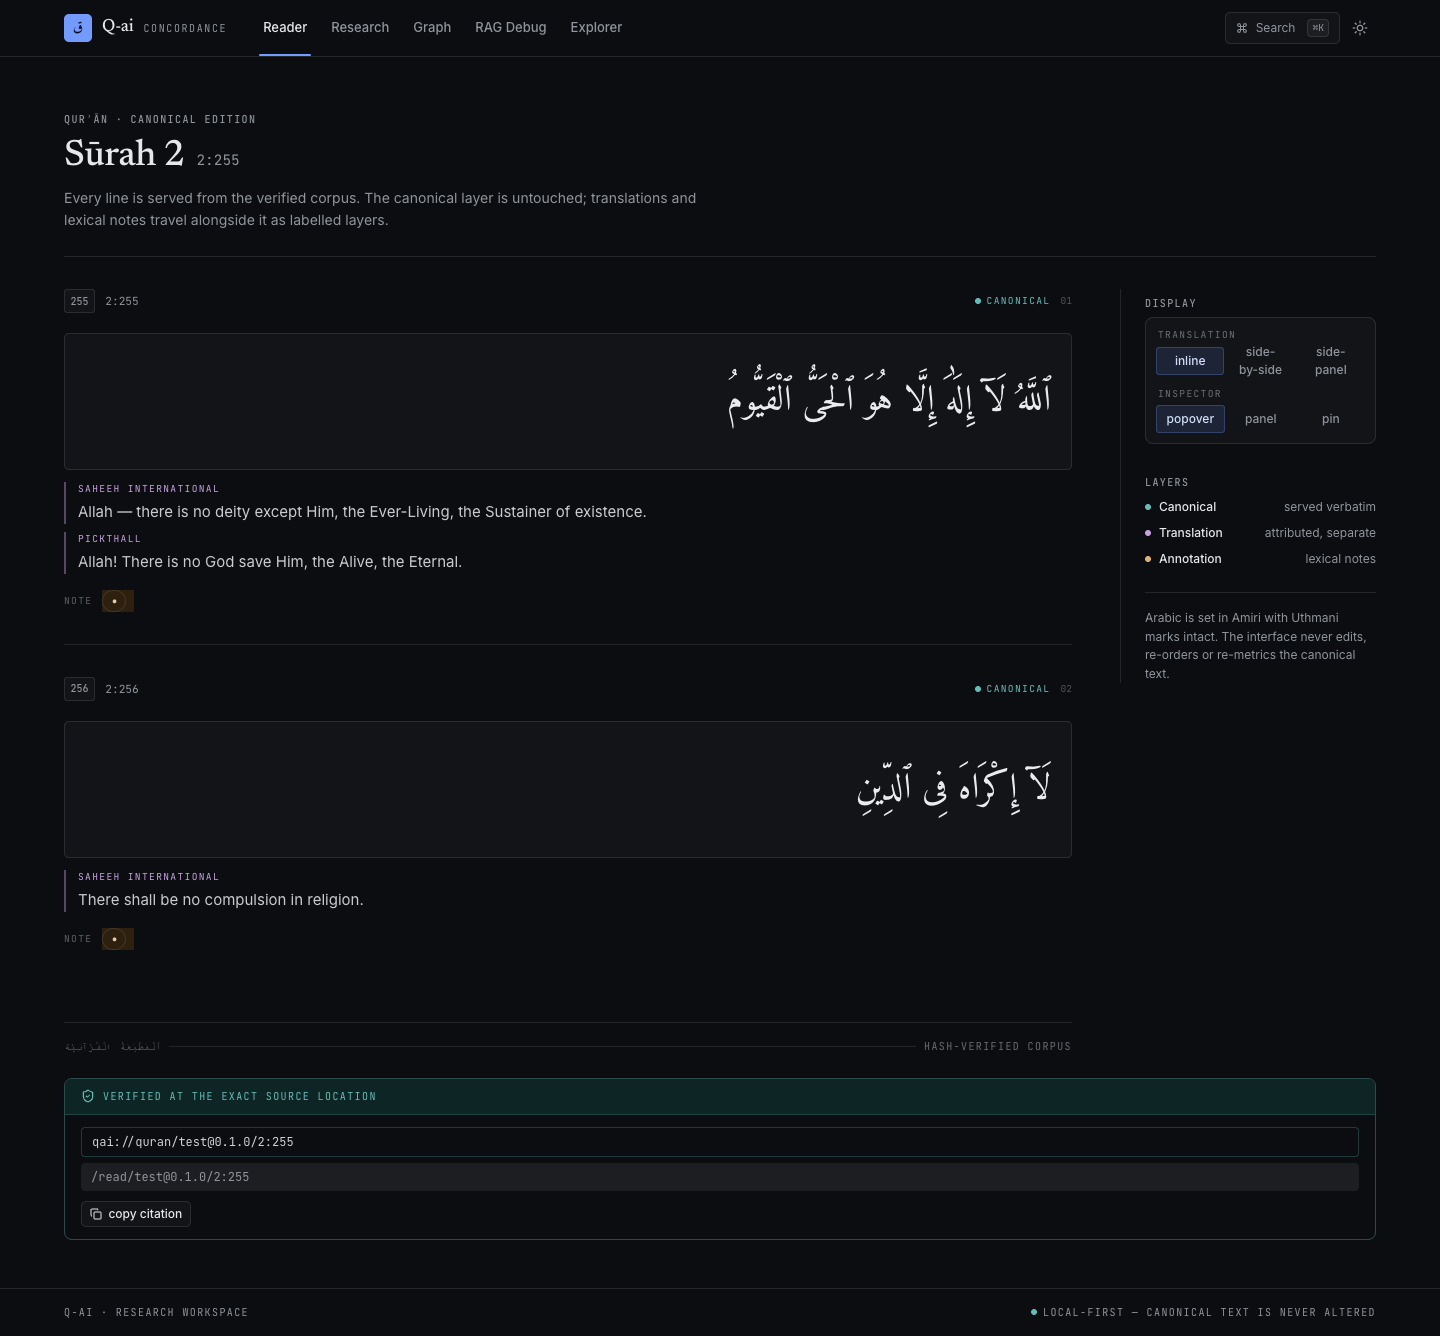
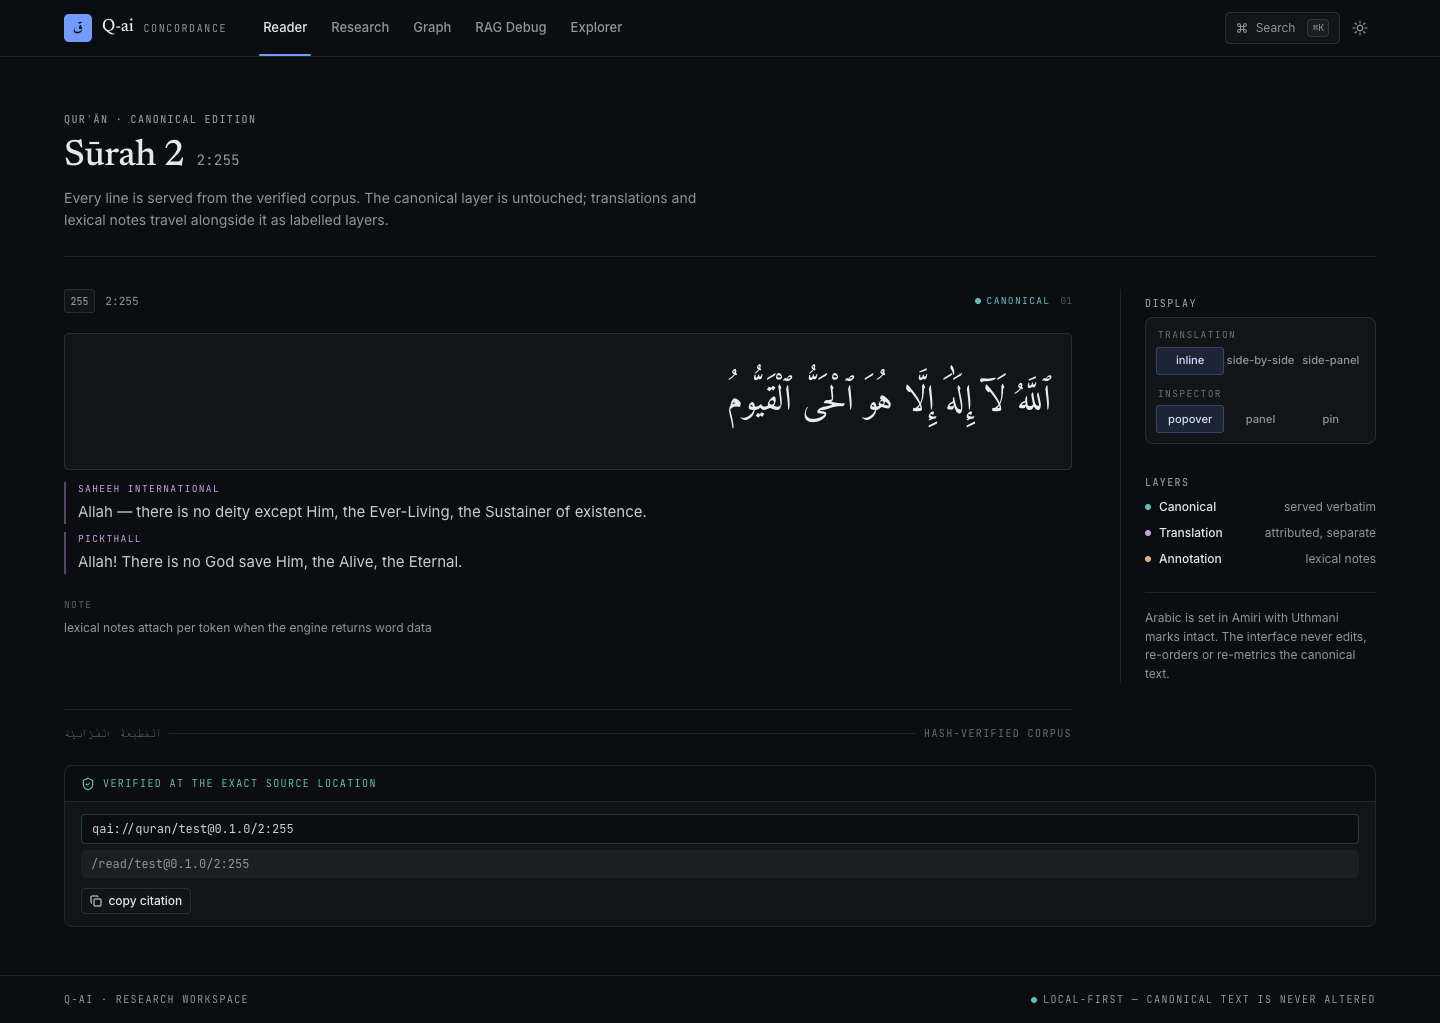
✨ feat(ui): enrich Concordance pass — honest inspector, directory, segment fix

diff --git a/web/src/views/ReadingView.tsx b/web/src/views/ReadingView.tsx
@@ -6,8 +6,10 @@ import { useState } from 'react'
 import AyahColumn from '../components/AyahColumn'
 import { PageHeader } from '../components/layout/page-header'
 import TranslationPanel from '../components/TranslationPanel'
-import WordInspector, { type InspectorMode } from '../components/WordInspector'
-import DisplayModeControl, { type TranslationMode } from '../display/DisplayModeControl'
+import DisplayModeControl, {
+  type InspectorMode,
+  type TranslationMode,
+} from '../display/DisplayModeControl'
 import type { AyahView } from '../api/client'
 
 function refTail(reference: string): string {
@@ -131,11 +133,29 @@ export default function ReadingView({
                   </details>
                 )}
 
-                <div className="ayah-annotation-row mt-4 flex items-center gap-2.5" dir="ltr">
+                {/* Lexical inspector standby: no word payload ships with the
+                    ayah endpoint, so nothing here pretends to inspect a token.
+                    The three modes still frame the standby differently, as the
+                    contract requires — per-token notes render once the engine
+                    returns word data. */}
+                <div
+                  className="ayah-annotation-row mt-4"
+                  dir="ltr"
+                  data-inspector-mode={inspectorMode}
+                >
                   <span className="font-mono text-[0.6rem] uppercase tracking-[0.14em] text-muted-foreground/60">
                     note
                   </span>
-                  <WordInspector word={{ surface: '•' }} mode={inspectorMode} />
+                  {inspectorMode === 'panel' ? (
+                    <p className="mt-1.5 rounded-md border px-3 py-2 text-[0.75rem] leading-relaxed text-muted-foreground">
+                      lexical notes will dock here, per token, when the engine returns word data
+                    </p>
+                  ) : (
+                    <p className="mt-1 text-[0.75rem] leading-relaxed text-muted-foreground">
+                      lexical notes attach per token when the engine returns word data
+                      {inspectorMode === 'pin' && ' — pin to keep'}
+                    </p>
+                  )}
                 </div>
               </article>
             ))}

diff --git a/web/src/router.tsx b/web/src/router.tsx
@@ -131,6 +131,30 @@ export default function Router({ path }: { path: string }) {
             </p>
           </div>
         </div>
+        <nav aria-label="Workspace directory" className="mt-10">
+          <p className="kicker mb-2">Directory</p>
+          <ul className="divide-y overflow-hidden rounded-lg border bg-card">
+            {[
+              { path: '/research', label: 'Research', note: 'nine lexical instruments over the typed engine' },
+              { path: '/graph', label: 'Graph', note: 'neighbors and paths from the frozen payload' },
+              { path: '/rag-debug', label: 'RAG Debug', note: 'sealed vault — retrieval lands in Phase 8' },
+              { path: '/explorer', label: 'Explorer', note: 'dispatch any request against the local engine' },
+            ].map((item) => (
+              <li key={item.path}>
+                <a
+                  href={item.path}
+                  className="flex items-baseline gap-4 px-4 py-3 transition-colors hover:bg-muted/40"
+                >
+                  <span className="text-[0.8125rem] font-medium">{item.label}</span>
+                  <span className="truncate text-[0.75rem] text-muted-foreground">{item.note}</span>
+                  <span className="ml-auto font-mono text-[0.65rem] text-muted-foreground/60" aria-hidden="true">
+                    →
+                  </span>
+                </a>
+              </li>
+            ))}
+          </ul>
+        </nav>
       </section>
     )
   } else if (error !== null) {

diff --git a/web/src/display/DisplayModeControl.tsx b/web/src/display/DisplayModeControl.tsx
@@ -1,6 +1,6 @@
 // Display-mode control: three translation modes × three inspector modes.
 // Every mode renders a distinct layout in ReadingView (D-05/D-06/D-07).
-import type { InspectorMode } from '../components/WordInspector'
+export type InspectorMode = 'popover' | 'panel' | 'pin'
 
 export type TranslationMode = 'inline' | 'side-by-side' | 'side-panel'
 
@@ -25,14 +25,15 @@ function ModeRow({
       <span className="px-0.5 font-mono text-[0.6rem] uppercase tracking-[0.14em] text-muted-foreground/70">
         {label}
       </span>
-      <div className="flex flex-wrap gap-0.5">
+      <div className="grid grid-cols-3 gap-0.5">
         {modes.map((mode) => (
           <button
             key={mode}
             type="button"
-            className="seg flex-1"
+            className="seg min-w-0 truncate px-1 text-[0.7rem]"
             aria-pressed={active === mode}
             aria-label={`${namePrefix}${mode}`}
+            title={mode}
             onClick={() => onSelect(mode)}
           >
             {mode}

diff --git a/web/src/views/CitationView.tsx b/web/src/views/CitationView.tsx
@@ -70,14 +70,14 @@ export default function CitationView({ citationId }: { citationId: string }) {
   }
 
   return (
-    <aside className="mt-6 overflow-hidden rounded-lg border border-canon/35">
-      <div className="flex items-center gap-2 border-b border-canon/20 bg-canon-soft px-4 py-2.5">
+    <aside className="mt-6 overflow-hidden rounded-lg border">
+      <div className="flex items-center gap-2 border-b px-4 py-2.5">
         <ShieldCheck className="size-3.5 text-canon" aria-hidden="true" />
         <p className="font-mono text-[0.625rem] uppercase tracking-[0.14em] text-canon">
           verified at the exact source location
         </p>
       </div>
-      <div className="px-4 py-3">
+      <div className="bg-card px-4 py-3">
         <CitationCopy urn={state.urn} deepLink={state.deepLink} />
       </div>
     </aside>

diff --git a/web/src/views/ResearchView.tsx b/web/src/views/ResearchView.tsx
@@ -181,7 +181,9 @@ export default function ResearchView({
               </button>
             ))}
           </div>
-          <p className="margin-note mt-4 hidden border-t pt-3 lg:block">{current.hint}.</p>
+          <p className="margin-note mt-4 hidden border-t pt-3 lg:block">
+            Enter runs the instrument · findings keep service order.
+          </p>
         </nav>
 
         <div className="min-w-0">

diff --git a/docs/ui-redesign/IMPLEMENTATION-REPORT.md b/docs/ui-redesign/IMPLEMENTATION-REPORT.md
@@ -116,6 +116,29 @@ Reader screenshots use Playwright route mocks for `/api/v1/quran/ayahs/**` and
 `/api/v1/quran/citations/**` because the Rust engine is not running; search
 results are mocked for the same reason. Nothing was mocked in production code.
 
+## 8. Enrichment pass (2026-11-01, uncommitted at time of writing)
+
+Recheck of the shipped pass found five small defects, fixed without changing
+any route, contract, or test:
+
+- Display-mode segments wrapped mid-word in the 16 rem margin (`side- /
+  by-side`). The mode rows are now 3-column grids with truncated labels;
+  visible labels and `aria-label`s are unchanged.
+- The reader rendered a fake `•` token through `WordInspector` with no word
+  data behind it. Replaced by an honest inspector standby (inline in
+  popover/pin, boxed in panel); `components/WordInspector.tsx` deleted and the
+  `InspectorMode` type moved into `DisplayModeControl`, its owner.
+- The citation banner's filled mint header fought the palette; it is now a
+  plain ruled card with the canon accent kept on the label only.
+- The research margin note tripled the query hint (placeholder + standby +
+  margin); it now states the keyboard contract instead.
+- The reader landing is no longer half-empty: a directory lists the four real
+  sibling routes with one-line descriptions.
+
+Validation repeated: `npm run build` passes, 19/19 vitest, Playwright
+re-capture (reader light/dark/mobile, index, research) plus mode-switch and
+no-page-error checks.
+
 ## 7. Known limitations
 
 - The reader landing depends on a valid edition slug; the prefilled

diff --git a/docs/ui-redesign/UI-SPEC.md b/docs/ui-redesign/UI-SPEC.md
@@ -113,6 +113,8 @@ inside a section is `12–24 px`; page padding is `16 px` mobile, `24 px` tablet
   it follows the content in document order.
 - Reading page: text column + 16 rem margin (display controls, layer legend,
   colophon note). Canonical slabs are full-column width so long verses breathe.
+- Reader landing: deep-link form + workspace directory listing the four real
+  sibling routes — no invented destinations.
 
 ## 7. Navigation
 
@@ -148,8 +150,11 @@ Bespoke atoms in `index.css`, composed in views:
 | `.carbon` | raw transcript surface |
 
 Shared React components: `PageHeader`, `EmptyState`, `ErrorNote`, `LoadingLine`,
-`AppShell` + `SiteHeader`, `CommandMenu`, `DisplayModeControl`, `AyahColumn`,
-`TranslationPanel`, `WordInspector`, `CitationCopy`.
+`AppShell` + `SiteHeader`, `CommandMenu`, `DisplayModeControl` (owns the
+`TranslationMode` / `InspectorMode` types), `AyahColumn`, `TranslationPanel`,
+`CitationCopy`. There is no word-token component: the ayah endpoint ships no
+word payload, so the reader shows an honest inspector standby instead of a
+placeholder token.
 
 ## 9. Buttons and interaction states
 
